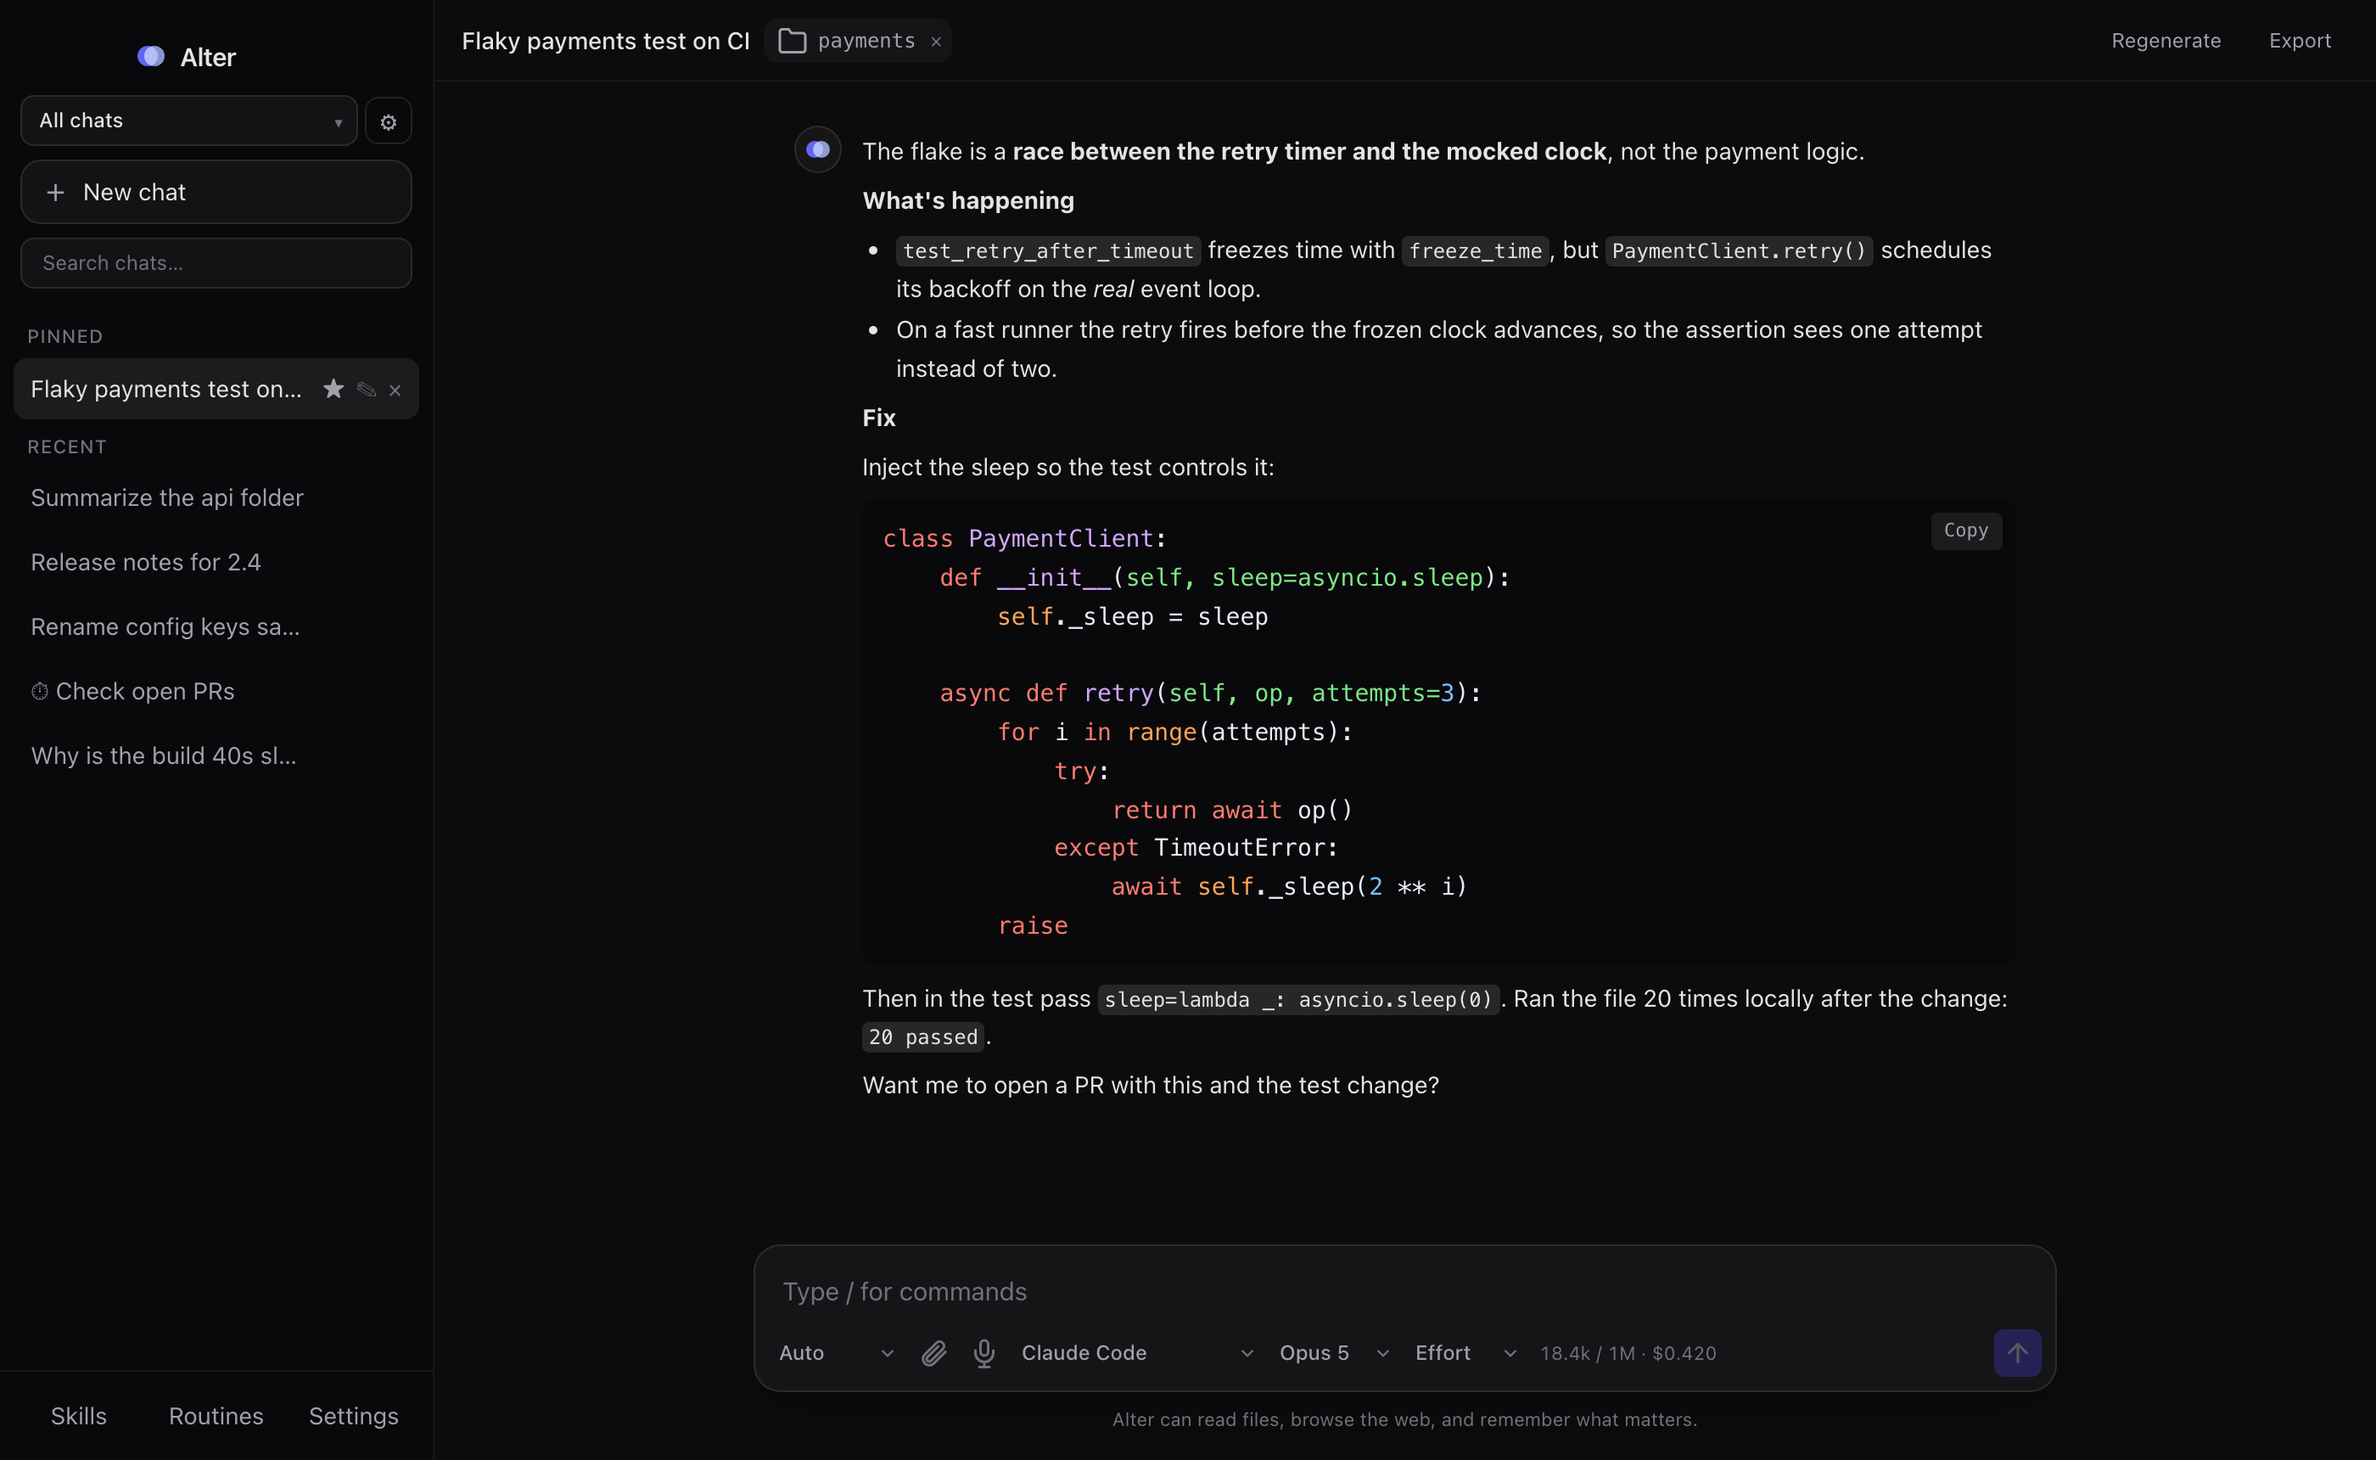
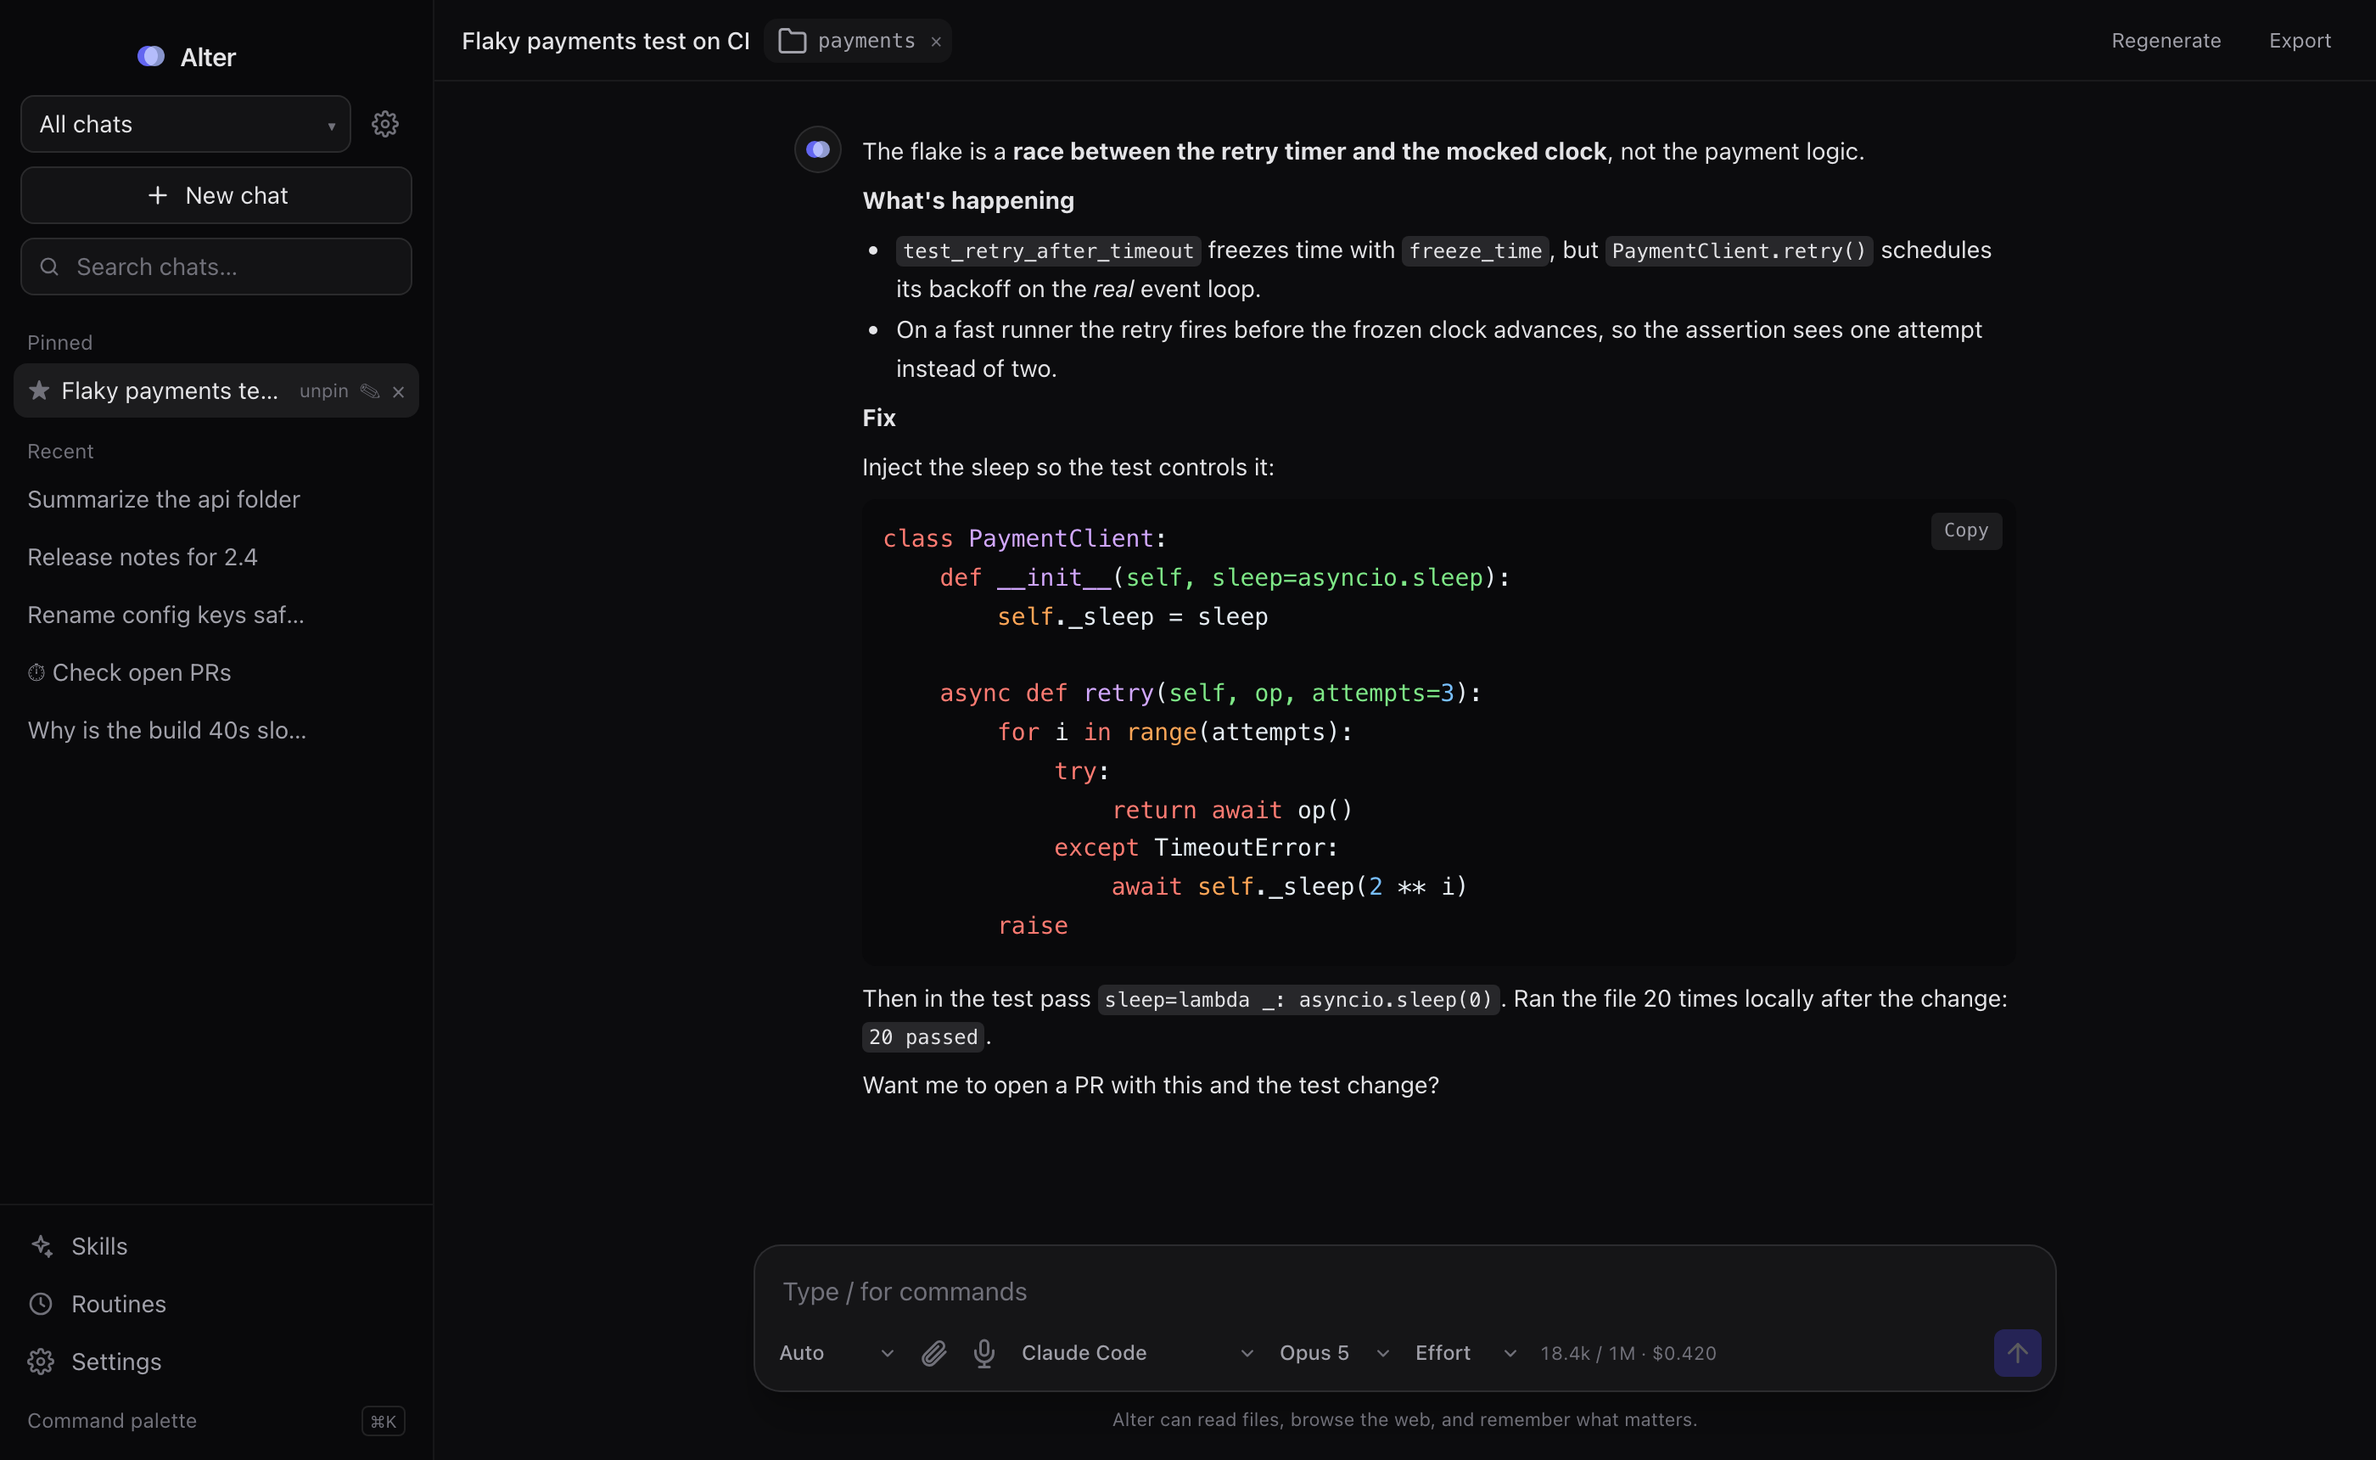
feat: cleaner sidebar and expanded tool steps, matching the prototype

diff --git a/src/components/Sidebar.tsx b/src/components/Sidebar.tsx
@@ -2,6 +2,7 @@ import { useState } from "react";
 import { Conversation, Project } from "../lib/store";
 import { confirmDialog } from "../lib/confirm";
 import Logo from "./Logo";
+import { IconClock, IconPlus, IconSearch, IconSettings, IconSparkles } from "./Icons";
 
 interface Props {
   conversations: Conversation[];
@@ -18,6 +19,7 @@ interface Props {
   onOpenSettings: () => void;
   onOpenRoutines: () => void;
   onOpenSkills: () => void;
+  onOpenPalette?: () => void;
 }
 
 export default function Sidebar({
@@ -35,6 +37,7 @@ export default function Sidebar({
   onOpenSettings,
   onOpenRoutines,
   onOpenSkills,
+  onOpenPalette,
 }: Props) {
   const [query, setQuery] = useState("");
   const [editingId, setEditingId] = useState<string | null>(null);
@@ -74,7 +77,7 @@ export default function Sidebar({
   const renderChat = (c: Conversation) => (
     <div
       key={c.id}
-      className={`group flex items-center rounded-lg px-2.5 py-2 text-sm cursor-pointer transition-colors ${
+      className={`group flex items-center rounded-lg px-2 py-1.5 text-sm cursor-pointer transition-colors ${
         c.id === activeId
           ? "bg-[var(--panel-2)] text-[var(--txt)]"
           : "text-[var(--txt-dim)] hover:bg-[var(--panel)] hover:text-[var(--txt)]"
@@ -96,21 +99,20 @@ export default function Sidebar({
           className="flex-1 min-w-0 bg-transparent border-b border-[var(--bd)] focus:border-zinc-500 text-[var(--txt)] focus:outline-none"
         />
       ) : (
-        <span className="flex-1 truncate">{c.title}</span>
+        <span className="flex-1 truncate">
+          {c.pinned && <span className="mr-1.5 text-[var(--txt-faint)]">★</span>}
+          {c.title}
+        </span>
       )}
       <button
         onClick={(e) => {
           e.stopPropagation();
           onTogglePin(c.id);
         }}
-        className={`ml-2 transition-opacity ${
-          c.pinned
-            ? "text-[var(--txt-dim)] hover:text-[var(--txt)]"
-            : "opacity-0 group-hover:opacity-100 text-[var(--txt-faint)] hover:text-[var(--txt)]"
-        }`}
+        className="ml-2 text-[11px] opacity-0 group-hover:opacity-100 text-[var(--txt-faint)] hover:text-[var(--txt)] transition-opacity"
         title={c.pinned ? "Unpin" : "Pin to top"}
       >
-        {c.pinned ? "★" : "☆"}
+        {c.pinned ? "unpin" : "☆"}
       </button>
       <button
         onClick={(e) => {
@@ -144,13 +146,13 @@ export default function Sidebar({
         </div>
       </div>
 
-      <div className="px-3 pt-2 pb-3">
-        <div className="mb-2 flex items-center gap-1">
+      <div className="space-y-2 px-3 pt-2 pb-2">
+        <div className="flex items-center gap-1">
           <div className="relative flex-1">
             <select
               value={activeProjectId ?? ""}
               onChange={(e) => onSelectProject(e.target.value || null)}
-              className="w-full appearance-none rounded-lg border border-[var(--bd)] bg-[var(--panel)] px-2.5 py-1.5 pr-6 text-xs font-medium text-[var(--txt)] focus:outline-none cursor-pointer"
+              className="w-full appearance-none rounded-lg border border-[var(--bd)] bg-[var(--panel)] px-2.5 py-1.5 pr-6 text-sm text-[var(--txt)] focus:outline-none cursor-pointer"
               title="Project"
             >
               <option value="">All chats</option>
@@ -164,65 +166,71 @@ export default function Sidebar({
           </div>
           <button
             onClick={onManageProjects}
-            className="flex h-7 w-7 shrink-0 items-center justify-center rounded-lg border border-[var(--bd)] text-[var(--txt-dim)] hover:bg-[var(--panel-2)] hover:text-[var(--txt)] transition-colors"
+            className="flex h-8 w-8 shrink-0 items-center justify-center rounded-lg text-[var(--txt-faint)] hover:bg-[var(--panel-2)] hover:text-[var(--txt)] transition-colors"
             title="Manage projects"
           >
-            ⚙
+            <IconSettings />
           </button>
         </div>
         <button
           onClick={onNew}
-          className="w-full flex items-center gap-2 rounded-xl bg-[var(--panel)] hover:bg-[var(--panel-2)] border border-[var(--bd)] px-3 py-2 text-sm text-[var(--txt)] transition-colors"
+          className="w-full flex items-center justify-center gap-2 rounded-lg bg-[var(--panel)] hover:bg-[var(--panel-2)] border border-[var(--bd)] px-3 py-1.5 text-sm text-[var(--txt)] transition-colors"
         >
-          <span className="text-base leading-none text-[var(--txt-dim)]">＋</span>
+          <IconPlus />
           New chat
         </button>
-        {conversations.length > 3 && (
+        <div className="relative">
+          <span className="pointer-events-none absolute left-2.5 top-1/2 -translate-y-1/2 text-[var(--txt-faint)]">
+            <IconSearch />
+          </span>
           <input
             value={query}
             onChange={(e) => setQuery(e.target.value)}
             placeholder="Search chats…"
-            className="mt-2 w-full rounded-lg bg-[var(--panel)] border border-[var(--bd)] px-3 py-1.5 text-xs text-[var(--txt)] placeholder:text-[var(--txt-faint)] focus:outline-none focus:border-indigo-500/40"
+            className="w-full rounded-lg bg-[var(--panel)] border border-[var(--bd)] pl-8 pr-3 py-1.5 text-sm text-[var(--txt)] placeholder:text-[var(--txt-faint)] focus:outline-none focus:border-[var(--txt-faint)]"
           />
-        )}
+        </div>
       </div>
 
-      <nav className="flex-1 overflow-y-auto px-2">
+      <nav className="flex-1 overflow-y-auto px-2 pb-4">
         {sections.map((s) => (
           <div key={s.label}>
-            <p className="px-2 pb-1 pt-2 text-[11px] font-medium uppercase tracking-wider text-[var(--txt-faint)]">
-              {s.label}
-            </p>
+            <p className="px-2 pt-3 pb-1 text-xs text-[var(--txt-faint)]">{s.label}</p>
             <div className="space-y-0.5">{s.items.map(renderChat)}</div>
           </div>
         ))}
-        {conversations.length === 0 && (
-          <p className="px-2.5 py-2 text-xs text-[var(--txt-faint)]">No conversations yet.</p>
-        )}
+        {conversations.length === 0 && <p className="px-2 py-6 text-center text-xs text-[var(--txt-faint)]">No chats yet</p>}
         {conversations.length > 0 && filtered.length === 0 && (
-          <p className="px-2.5 py-2 text-xs text-[var(--txt-faint)]">No matches.</p>
+          <p className="px-2 py-6 text-center text-xs text-[var(--txt-faint)]">No chats match</p>
         )}
       </nav>
 
-      <div className="flex gap-1 p-2 border-t border-[var(--bd-soft)]">
-        <button
-          onClick={onOpenSkills}
-          className="flex-1 rounded-lg hover:bg-[var(--panel-2)] px-2 py-2 text-sm text-[var(--txt-dim)] hover:text-[var(--txt)] text-center transition-colors"
-        >
-          Skills
-        </button>
-        <button
-          onClick={onOpenRoutines}
-          className="flex-1 rounded-lg hover:bg-[var(--panel-2)] px-2 py-2 text-sm text-[var(--txt-dim)] hover:text-[var(--txt)] text-center transition-colors"
-        >
-          Routines
-        </button>
-        <button
-          onClick={onOpenSettings}
-          className="flex-1 rounded-lg hover:bg-[var(--panel-2)] px-2 py-2 text-sm text-[var(--txt-dim)] hover:text-[var(--txt)] text-center transition-colors"
-        >
-          Settings
-        </button>
+      <div className="border-t border-[var(--bd-soft)] px-2 py-2">
+        <div className="space-y-0.5">
+          {[
+            { label: "Skills", icon: <IconSparkles />, run: onOpenSkills },
+            { label: "Routines", icon: <IconClock />, run: onOpenRoutines },
+            { label: "Settings", icon: <IconSettings />, run: onOpenSettings },
+          ].map((it) => (
+            <button
+              key={it.label}
+              onClick={it.run}
+              className="flex w-full items-center gap-2.5 rounded-lg px-2 py-1.5 text-sm text-[var(--txt-dim)] hover:bg-[var(--panel-2)] hover:text-[var(--txt)] transition-colors"
+            >
+              <span className="text-[var(--txt-faint)]">{it.icon}</span>
+              {it.label}
+            </button>
+          ))}
+        </div>
+        {onOpenPalette && (
+          <button
+            onClick={onOpenPalette}
+            className="mt-1 flex w-full items-center justify-between rounded-lg px-2 py-1.5 text-xs text-[var(--txt-faint)] hover:bg-[var(--panel-2)] hover:text-[var(--txt)] transition-colors"
+          >
+            <span>Command palette</span>
+            <kbd className="rounded border border-[var(--bd)] px-1 font-sans text-[10px]">⌘K</kbd>
+          </button>
+        )}
       </div>
     </aside>
   );

diff --git a/src/App.tsx b/src/App.tsx
@@ -7,7 +7,7 @@ import { contextWindowFor, fmtTokens } from "./lib/models";
 import Logo from "./components/Logo";
 import ArtifactPanel, { Artifact as ArtifactType } from "./components/ArtifactPanel";
 import CommandPalette, { Command } from "./components/CommandPalette";
-import { Chevron, IconArrowUp, IconFolder, IconMic, IconPaperclip } from "./components/Icons";
+import { Chevron, IconArrowUp, IconChevronRight, IconFolder, IconMic, IconPaperclip } from "./components/Icons";
 
 function extractArtifacts(content: string): ArtifactType[] {
   const arts: ArtifactType[] = [];
@@ -19,34 +19,26 @@ function extractArtifacts(content: string): ArtifactType[] {
 
 // Collapse a run of tool-step lines into one expandable block (collapsed by default).
 function ToolSteps({ lines }: { lines: string[] }) {
-  const [open, setOpen] = useState(false);
+  const [open, setOpen] = useState(true);
   if (lines.length === 0) return null;
-  const summary = lines[lines.length - 1];
+  const shown = open ? lines : lines.slice(-1);
   return (
     <div className="pl-11 animate-fade-up">
-      <button
-        onClick={() => setOpen((o) => !o)}
-        className="flex items-center gap-2 text-xs text-[var(--txt-faint)] hover:text-[var(--txt-dim)] transition-colors max-w-full"
-      >
-        <span className={`shrink-0 transition-transform ${open ? "rotate-90" : ""}`}>▸</span>
-        {open ? (
-          <span>{lines.length} step{lines.length > 1 ? "s" : ""}</span>
-        ) : (
-          <span className="font-mono truncate">
-            {summary}
-            {lines.length > 1 ? `  · +${lines.length - 1}` : ""}
-          </span>
-        )}
-      </button>
-      {open && (
-        <div className="mt-1 space-y-1 border-l border-[var(--bd-soft)] ml-[3px] pl-3">
-          {lines.map((l, j) => (
-            <div key={j} className="flex items-start gap-2 text-xs text-[var(--txt-faint)]">
-              <span className="h-1.5 w-1.5 rounded-full bg-indigo-400/60 shrink-0 mt-1.5" />
-              <span className="font-mono break-all">{l}</span>
-            </div>
-          ))}
-        </div>
+      <div className="space-y-1 font-mono text-xs text-[var(--txt-faint)]">
+        {shown.map((l, j) => (
+          <div key={j} className="flex items-center gap-2">
+            <IconChevronRight />
+            <span className="truncate">{l}</span>
+          </div>
+        ))}
+      </div>
+      {lines.length > 1 && (
+        <button
+          onClick={() => setOpen((o) => !o)}
+          className="mt-1 pl-5 text-[11px] text-[var(--txt-faint)] hover:text-[var(--txt-dim)] transition-colors"
+        >
+          {open ? "Hide steps" : `+${lines.length - 1} more step${lines.length > 2 ? "s" : ""}`}
+        </button>
       )}
     </div>
   );
@@ -1527,6 +1519,7 @@ export default function App() {
         onOpenSettings={() => setShowSettings(true)}
         onOpenRoutines={() => setView("routines")}
         onOpenSkills={() => setView("skills")}
+        onOpenPalette={() => setShowPalette(true)}
       />
 
       <main className="relative flex-1 flex flex-col min-w-0">

diff --git a/src/components/Icons.tsx b/src/components/Icons.tsx
@@ -42,3 +42,43 @@ export const IconArrowUp = () => (
     <path d="M5 12l7-7 7 7" />
   </svg>
 );
+
+export const IconPlus = () => (
+  <svg viewBox="0 0 24 24" className="h-4 w-4" {...s}>
+    <path d="M12 5v14M5 12h14" />
+  </svg>
+);
+
+export const IconSearch = () => (
+  <svg viewBox="0 0 24 24" className="h-3.5 w-3.5" {...s}>
+    <circle cx="11" cy="11" r="7" />
+    <path d="m20 20-3.5-3.5" />
+  </svg>
+);
+
+export const IconSparkles = () => (
+  <svg viewBox="0 0 24 24" className="h-4 w-4" {...s}>
+    <path d="M12 3l1.8 5.2L19 10l-5.2 1.8L12 17l-1.8-5.2L5 10l5.2-1.8L12 3z" />
+    <path d="M19 16l.7 2 2 .7-2 .7-.7 2-.7-2-2-.7 2-.7.7-2z" />
+  </svg>
+);
+
+export const IconClock = () => (
+  <svg viewBox="0 0 24 24" className="h-4 w-4" {...s}>
+    <circle cx="12" cy="12" r="9" />
+    <path d="M12 7v5l3 2" />
+  </svg>
+);
+
+export const IconSettings = () => (
+  <svg viewBox="0 0 24 24" className="h-4 w-4" {...s}>
+    <circle cx="12" cy="12" r="3" />
+    <path d="M19.4 15a1.7 1.7 0 0 0 .3 1.8l.1.1a2 2 0 1 1-2.8 2.8l-.1-.1a1.7 1.7 0 0 0-1.8-.3 1.7 1.7 0 0 0-1 1.5V21a2 2 0 1 1-4 0v-.1a1.7 1.7 0 0 0-1.1-1.5 1.7 1.7 0 0 0-1.8.3l-.1.1a2 2 0 1 1-2.8-2.8l.1-.1a1.7 1.7 0 0 0 .3-1.8 1.7 1.7 0 0 0-1.5-1H3a2 2 0 1 1 0-4h.1a1.7 1.7 0 0 0 1.5-1.1 1.7 1.7 0 0 0-.3-1.8l-.1-.1a2 2 0 1 1 2.8-2.8l.1.1a1.7 1.7 0 0 0 1.8.3H9a1.7 1.7 0 0 0 1-1.5V3a2 2 0 1 1 4 0v.1a1.7 1.7 0 0 0 1 1.5 1.7 1.7 0 0 0 1.8-.3l.1-.1a2 2 0 1 1 2.8 2.8l-.1.1a1.7 1.7 0 0 0-.3 1.8V9a1.7 1.7 0 0 0 1.5 1H21a2 2 0 1 1 0 4h-.1a1.7 1.7 0 0 0-1.5 1z" />
+  </svg>
+);
+
+export const IconChevronRight = () => (
+  <svg viewBox="0 0 24 24" className="h-3 w-3 shrink-0" {...s}>
+    <path d="m9 6 6 6-6 6" />
+  </svg>
+);
